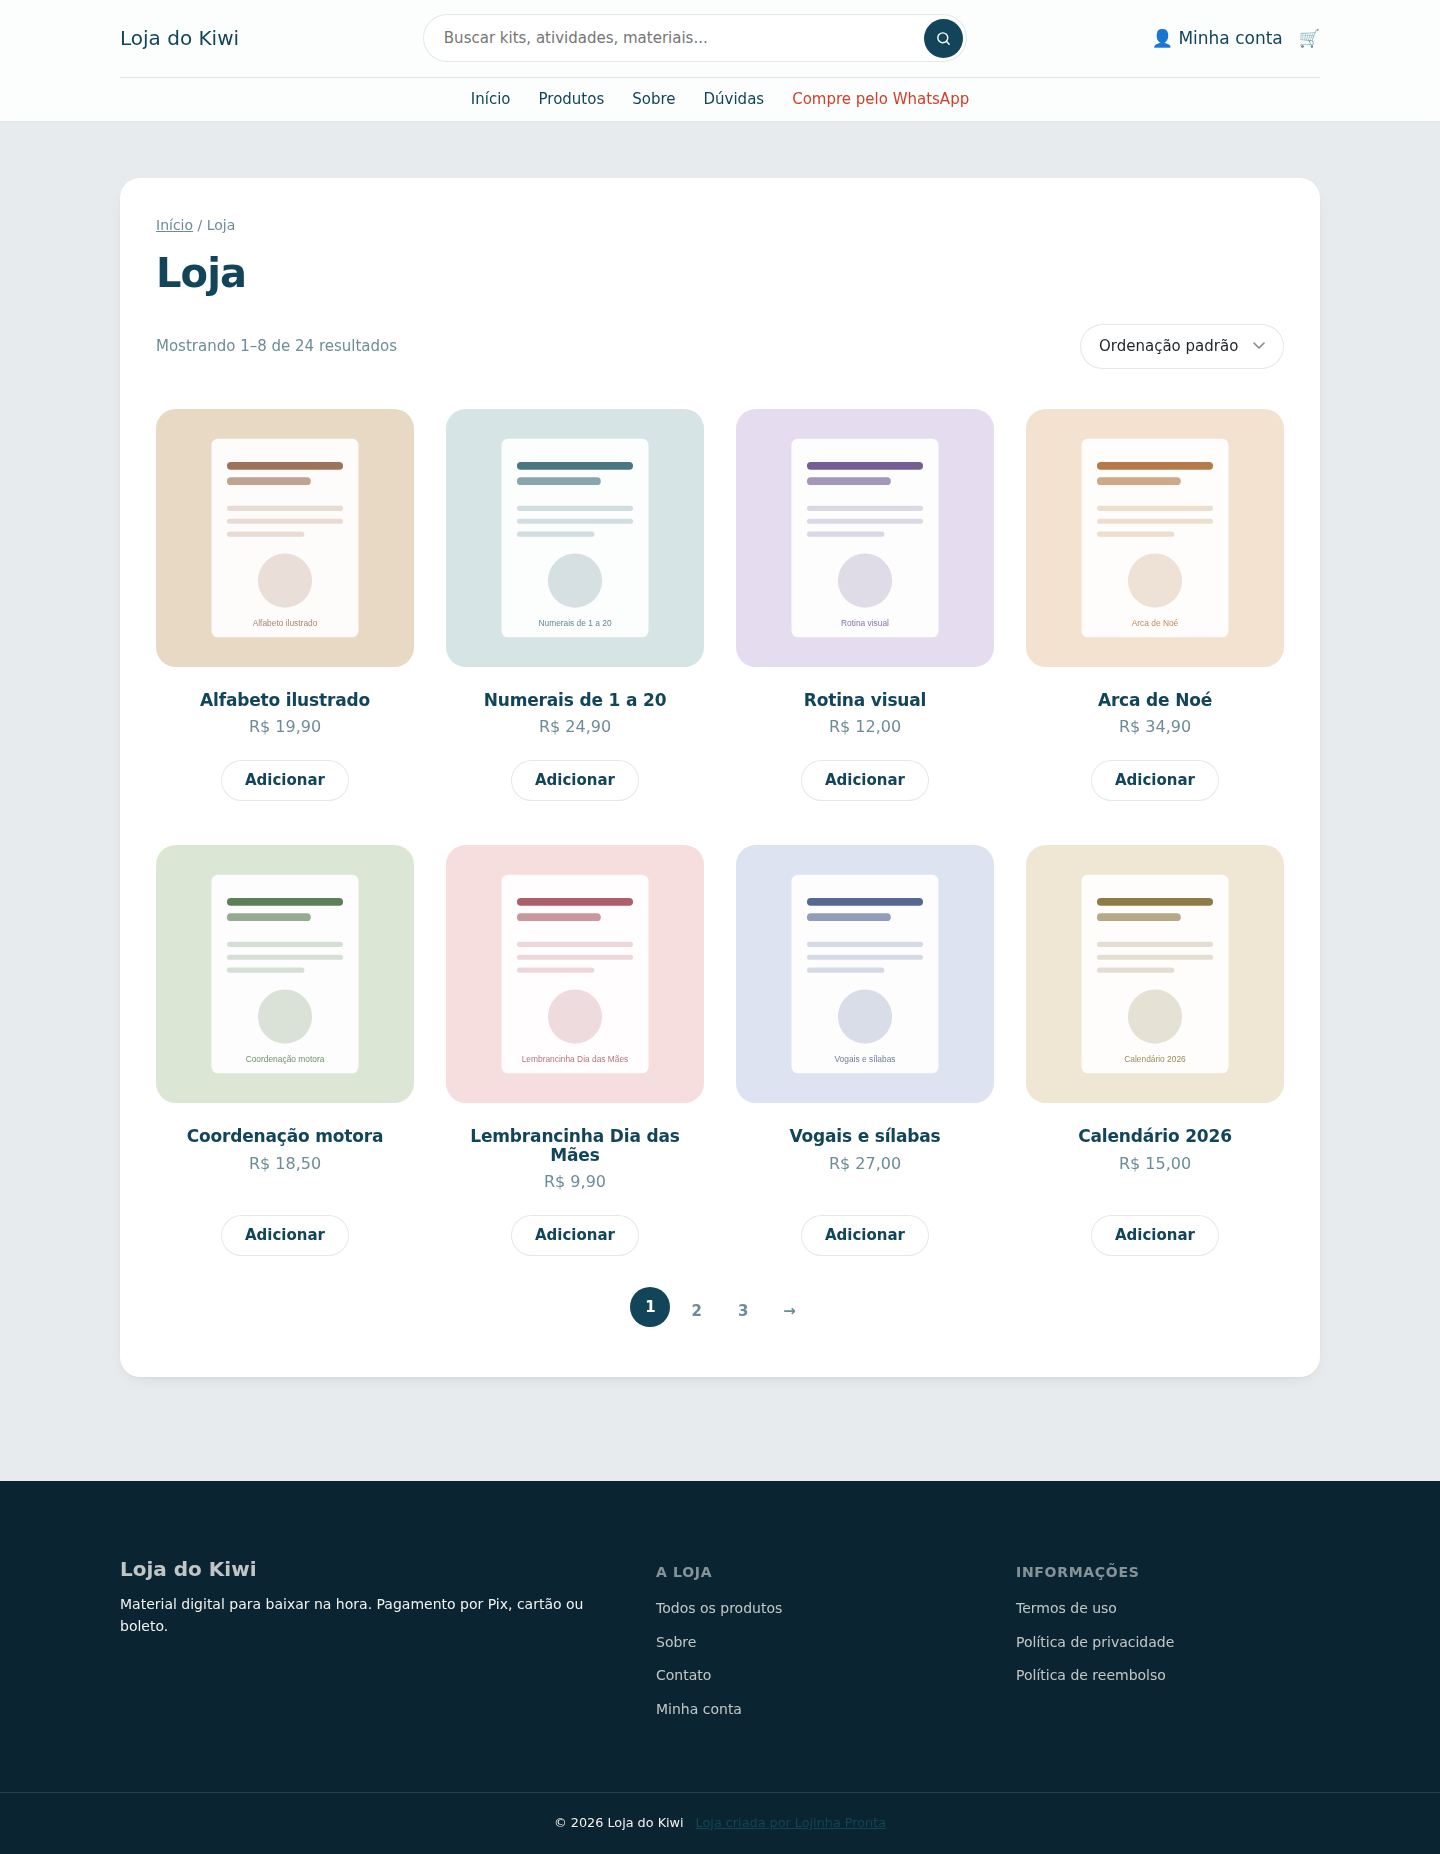
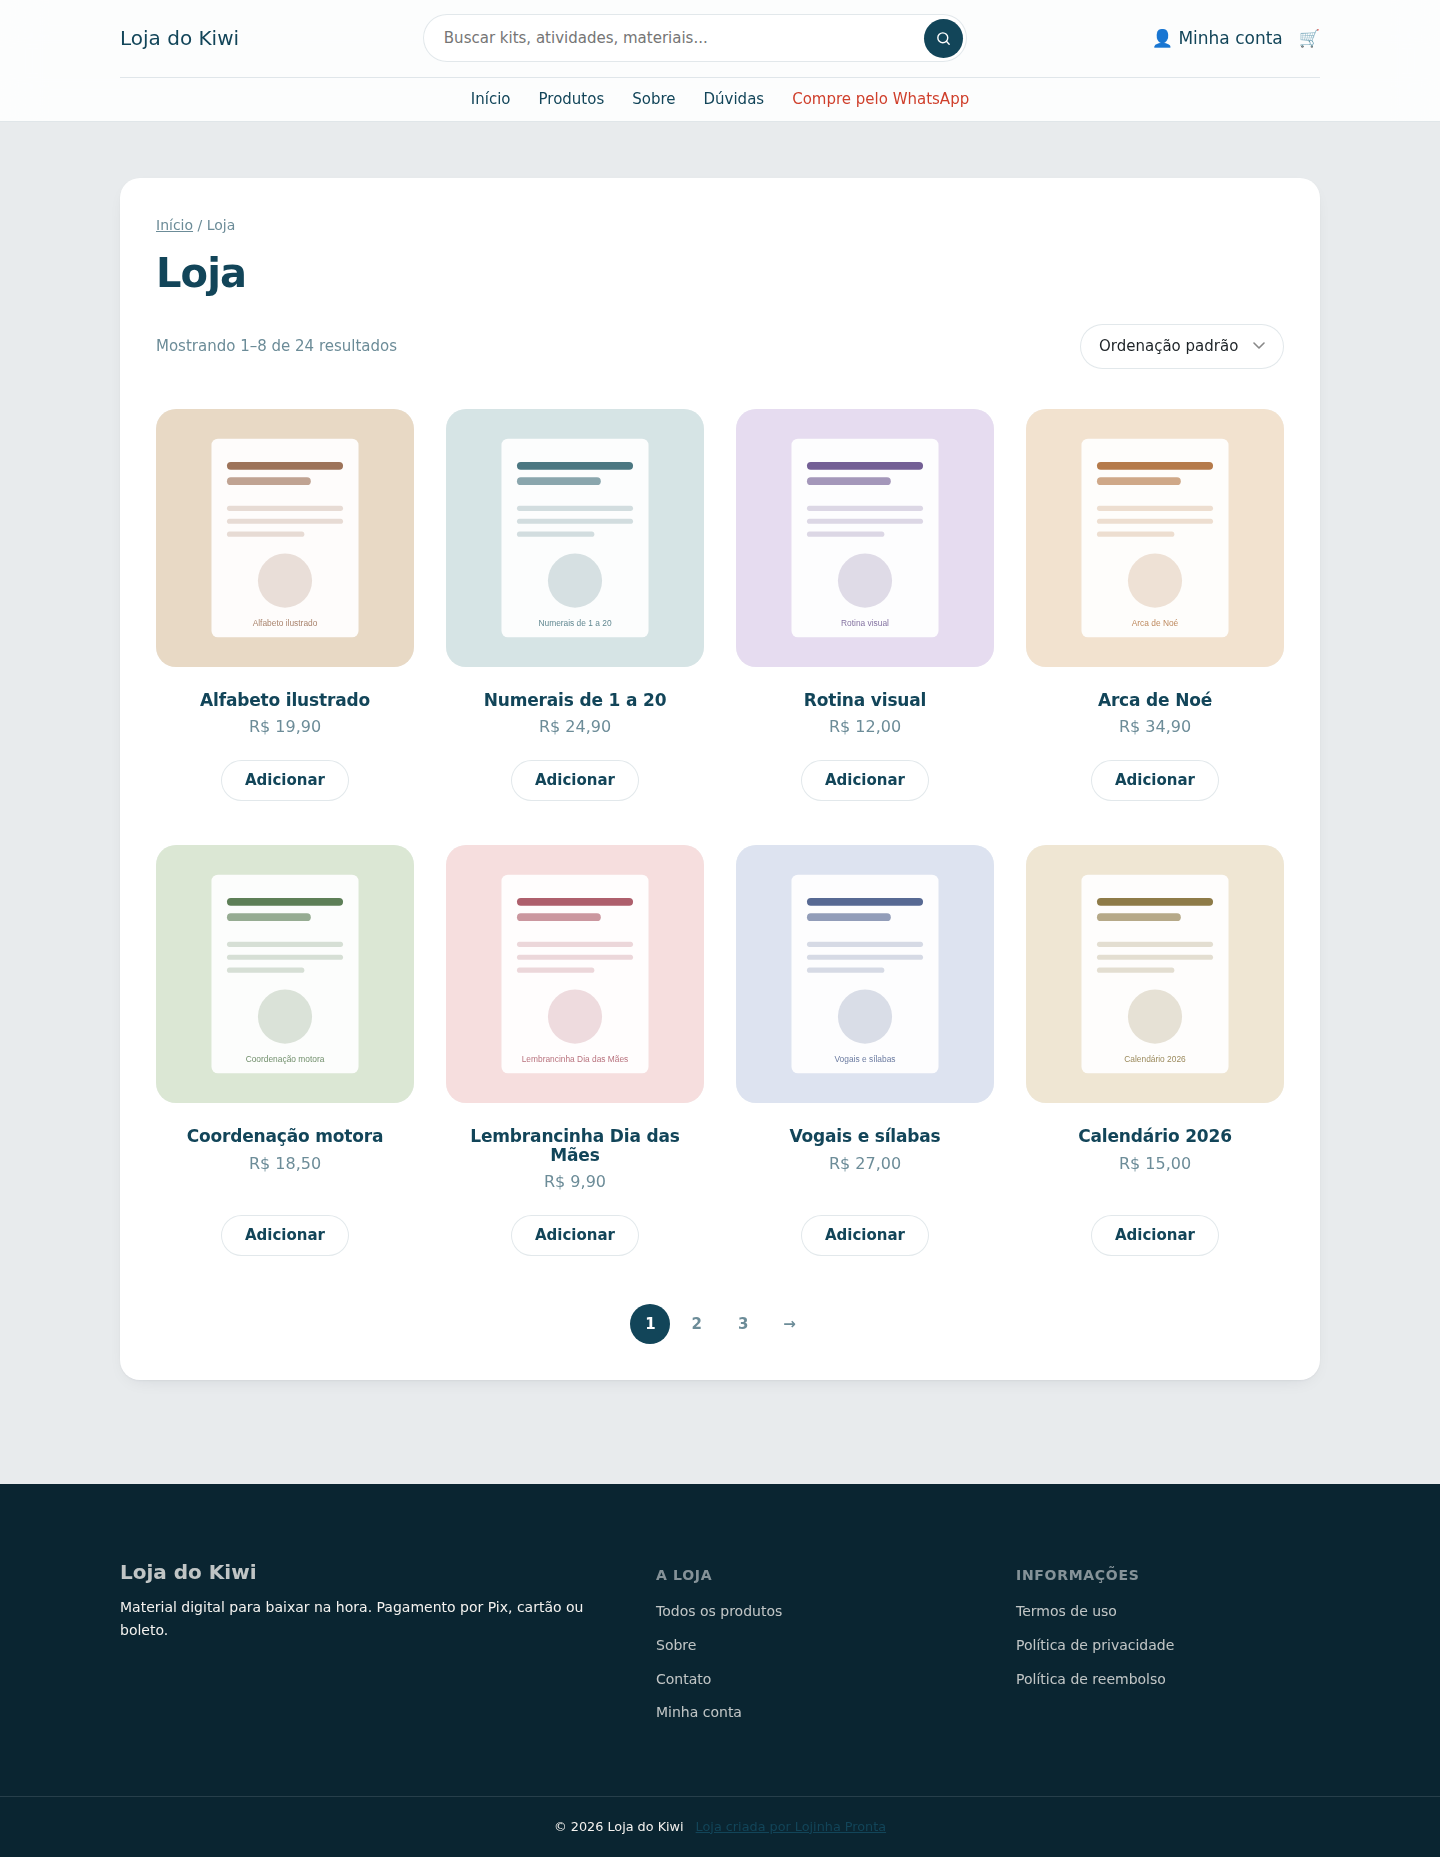
Corrigir os recuos e a loja sem cartão, vistos na loja real
Três bugs, e o primeiro explica por que a prévia não pegava os outros: eu
imitava o layout "constrained" do WordPress limitando os filhos ao
wideSize, quando ele limita ao contentSize. Com contentSize em 860px,
tudo dentro dos cartões vinha recuado 134px de cada lado na loja real e
alinhado na prévia. A prévia agora usa contentSize, e o contentSize do
tema passa a ser 1200px — a largura de leitura já era controlada no CSS.

A /loja/ e a página de produto ficavam sem cartão porque eu apostava num
seletor sobre a marcação que o WooCommerce gera. Agora o cartão vem por
bloco, no modelo, igual à home: não depende de adivinhar.

E a contagem de resultados aparecia no meio da loja: as regras de texto
corrido alcançavam a /loja/, e `margin: 0 auto` num item de grade
centraliza o item. Elas passam a excluir loja e produto.

Claude-Session: https://claude.ai/code/session_01Ds77Wkf3XPAkD3KpAW1DNx

diff --git a/tema/lojinha-pronta/style.css b/tema/lojinha-pronta/style.css
@@ -5,7 +5,7 @@ Author:      Lojinha Pronta
 Author URI:  https://lojinhapronta.com.br
 Description: Tema das lojas entregues pela Lojinha Pronta. Tema filho do Twenty Twenty-Five: herda os modelos de página e continua recebendo atualização de segurança do WordPress. Só carrega o que é específico da entrega — paleta da cliente, botão de WhatsApp, Analytics e o crédito de rodapé.
 Template:    twentytwentyfive
-Version:     3.1.0
+Version:     3.2.0
 Requires at least: 6.7
 Tested up to: 7.1
 Requires PHP: 7.4
@@ -122,13 +122,6 @@ body { background: var(--lp-fundo); }
   background: #fff;
 }
 
-.lp-loja > .woocommerce,
-.lp-produto > .woocommerce {
-  padding: clamp(1.4rem, 3vw, 2.25rem);
-  border-radius: var(--lp-raio);
-  background: #fff;
-  box-shadow: var(--lp-sombra);
-}
 
 /* ---------------------------------------------------------------- movimento
 
@@ -592,7 +585,7 @@ ul.products li.product .button:focus-visible {
 
 .woocommerce-products-header__title,
 .lp-loja .entry-title,
-.lp-loja > .woocommerce > h1 {
+.lp-loja h1 {
   margin: 0 0 1.25rem;
   font-size: clamp(1.75rem, 3.5vw, 2.5rem);
 }
@@ -610,28 +603,40 @@ ul.products li.product .button:focus-visible {
 /* Grade em vez de flex: o container tem filhos de larguras diferentes —
    breadcrumb, título, contagem, ordenação, grade de produtos — e num flex
    simples eles brigam por espaço na mesma linha. Aqui só a contagem e a
-   ordenação dividem uma linha; o resto ocupa a largura toda. */
-.lp-loja > .woocommerce {
+   ordenação dividem uma linha; o resto ocupa a largura toda.
+
+   Os dois seletores existem porque o WooCommerce ora entrega o conteúdo solto
+   dentro do cartão, ora embrulhado num .woocommerce — e eu não vou adivinhar
+   qual dos dois em cada versão. */
+.lp-loja .lp-cartao,
+.lp-loja .lp-cartao > .woocommerce {
   display: grid;
   grid-template-columns: minmax(0, 1fr) auto;
   align-items: center;
   gap: .5rem 1rem;
 }
 
-.lp-loja > .woocommerce > * { grid-column: 1 / -1; }
+/* Tudo ocupa a largura toda, menos a contagem e a ordenação, que dividem uma
+   linha. Excluir as duas aqui evita disputa de especificidade com as regras
+   abaixo — que era o que fazia as duas empilharem. */
+.lp-loja .lp-cartao > *:not(.woocommerce-result-count):not(.woocommerce-ordering),
+.lp-loja .lp-cartao > .woocommerce > *:not(.woocommerce-result-count):not(.woocommerce-ordering) {
+  grid-column: 1 / -1;
+}
 
-.lp-loja > .woocommerce > .woocommerce-result-count {
+.lp-loja .woocommerce-result-count {
   grid-column: 1;
   margin: 0;
 }
 
-.lp-loja > .woocommerce > .woocommerce-ordering {
+.lp-loja .woocommerce-ordering {
   grid-column: 2;
   margin: 0;
+  float: none;
   justify-self: end;
 }
 
-.lp-loja > .woocommerce > ul.products { margin-top: 2rem; }
+.lp-loja ul.products { margin-top: 2rem; }
 
 /* O <select> nativo vem com contorno preto quadrado do navegador. */
 .woocommerce-ordering select,
@@ -950,6 +955,8 @@ ul.products li.product .button:focus-visible {
   }
 }
 
+.woocommerce-account .woocommerce > .woocommerce-notices-wrapper { grid-column: 1 / -1; }
+
 .woocommerce-MyAccount-navigation ul {
   margin: 0;
   padding: .5rem;
@@ -1106,7 +1113,11 @@ ul.products li.product .button:focus-visible {
 /* ---------------------------------------------------------- texto corrido
 
    Página jurídica é para ser lida, não varrida: linha curta, respiro entre
-   parágrafos e título que se distingue sem gritar. */
+   parágrafos e título que se distingue sem gritar.
+
+   A loja e o produto ficam de fora de todas estas regras. Não é zelo: o
+   `margin: 0 auto` daqui, aplicado a um item de grade, centraliza o item — e
+   era isso que jogava a contagem de resultados para o meio da loja. */
 
 /* Linha curta só onde há texto para ler. A conta e o carrinho são tabela e
    formulário: espremidos em 44rem, a tabela vaza para fora da tela. */
@@ -1118,22 +1129,22 @@ body.woocommerce-page .wp-site-blocks > main:not(.lp-main):not(.lp-loja):not(.lp
   max-width: var(--lp-largura);
 }
 
-.wp-site-blocks > main:not(.lp-main) .wp-block-post-title {
+.wp-site-blocks > main:not(.lp-main):not(.lp-loja):not(.lp-produto) .wp-block-post-title {
   margin: 0 auto 2rem;
   font-size: clamp(1.875rem, 4vw, 2.75rem);
 }
 
-.wp-site-blocks > main:not(.lp-main) h2 { margin: 2.75rem auto 1rem; }
+.wp-site-blocks > main:not(.lp-main):not(.lp-loja):not(.lp-produto) h2 { margin: 2.75rem auto 1rem; }
 
-.wp-site-blocks > main:not(.lp-main) h3 { margin: 2rem auto .75rem; }
+.wp-site-blocks > main:not(.lp-main):not(.lp-loja):not(.lp-produto) h3 { margin: 2rem auto .75rem; }
 
-.wp-site-blocks > main:not(.lp-main) p,
-.wp-site-blocks > main:not(.lp-main) ul,
-.wp-site-blocks > main:not(.lp-main) ol { margin: 0 auto 1.15rem; }
+.wp-site-blocks > main:not(.lp-main):not(.lp-loja):not(.lp-produto) p,
+.wp-site-blocks > main:not(.lp-main):not(.lp-loja):not(.lp-produto) ul,
+.wp-site-blocks > main:not(.lp-main):not(.lp-loja):not(.lp-produto) ol { margin: 0 auto 1.15rem; }
 
-.wp-site-blocks > main:not(.lp-main) li + li { margin-top: .5rem; }
+.wp-site-blocks > main:not(.lp-main):not(.lp-loja):not(.lp-produto) li + li { margin-top: .5rem; }
 
-.wp-site-blocks > main:not(.lp-main) .wp-block-table table {
+.wp-site-blocks > main:not(.lp-main):not(.lp-loja):not(.lp-produto) .wp-block-table table {
   border-collapse: separate;
   border-spacing: 0;
   border: 1px solid var(--lp-linha);
@@ -1142,17 +1153,17 @@ body.woocommerce-page .wp-site-blocks > main:not(.lp-main):not(.lp-loja):not(.lp
   font-size: .9375rem;
 }
 
-.wp-site-blocks > main:not(.lp-main) .wp-block-table th,
-.wp-site-blocks > main:not(.lp-main) .wp-block-table td {
+.wp-site-blocks > main:not(.lp-main):not(.lp-loja):not(.lp-produto) .wp-block-table th,
+.wp-site-blocks > main:not(.lp-main):not(.lp-loja):not(.lp-produto) .wp-block-table td {
   padding: .8rem 1rem;
   border: 0;
   border-bottom: 1px solid var(--lp-linha);
   text-align: left;
 }
 
-.wp-site-blocks > main:not(.lp-main) .wp-block-table thead th { background: var(--lp-superficie); }
+.wp-site-blocks > main:not(.lp-main):not(.lp-loja):not(.lp-produto) .wp-block-table thead th { background: var(--lp-superficie); }
 
-.wp-site-blocks > main:not(.lp-main) .wp-block-table tr:last-child td { border-bottom: 0; }
+.wp-site-blocks > main:not(.lp-main):not(.lp-loja):not(.lp-produto) .wp-block-table tr:last-child td { border-bottom: 0; }
 
 /* ------------------------------------------------- carrinho e finalização
 

diff --git a/ferramentas/previa/previa-loja.html b/ferramentas/previa/previa-loja.html
@@ -30,7 +30,9 @@ a{color:#124559}
 .has-lp-suave-color{color:#f4f2ef !important}
 .has-lp-marca-escura-background-color{background-color:#0a2531 !important}
 .wp-site-blocks{padding-left:var(--wp--style--root--padding-left);padding-right:var(--wp--style--root--padding-right)}
-/* layout "constrained": é assim que o WordPress limita a largura dos filhos */
+/* layout "constrained": o WordPress limita os filhos ao contentSize, não ao
+   wideSize. Imitar isso errado escondeu um recuo de 134px dentro dos cartões
+   que só apareceu na loja de verdade. */
 .wp-container > *{max-width:1200px;margin-left:auto;margin-right:auto}
 /* e é assim que ele trata largura total — especificidade 0,2,0 */
 .wp-container > .alignfull{max-width:none;width:auto;
@@ -67,7 +69,7 @@ a{color:#124559}
   </div>
 </header>
 <main class="wp-block-group alignfull lp-loja wp-container">
-  <div class="woocommerce">
+  <div class="wp-block-group lp-cartao"><div class="woocommerce">
     <nav class="woocommerce-breadcrumb"><a href="#">Início</a> / Loja</nav>
     <h1 class="woocommerce-products-header__title page-title">Loja</h1>
     <p class="woocommerce-result-count">Mostrando 1–8 de 24 resultados</p>
@@ -149,7 +151,7 @@ a{color:#124559}
         <li><a class="next page-numbers" href="#">→</a></li>
       </ul>
     </nav>
-  </div>
+  </div></div>
 </main>
 <footer class="wp-block-group lp-rodape has-lp-suave-color has-lp-marca-escura-background-color wp-container">
   <div class="wp-block-columns">

diff --git a/ferramentas/previa/previa-produto.html b/ferramentas/previa/previa-produto.html
@@ -30,7 +30,9 @@ a{color:#124559}
 .has-lp-suave-color{color:#f4f2ef !important}
 .has-lp-marca-escura-background-color{background-color:#0a2531 !important}
 .wp-site-blocks{padding-left:var(--wp--style--root--padding-left);padding-right:var(--wp--style--root--padding-right)}
-/* layout "constrained": é assim que o WordPress limita a largura dos filhos */
+/* layout "constrained": o WordPress limita os filhos ao contentSize, não ao
+   wideSize. Imitar isso errado escondeu um recuo de 134px dentro dos cartões
+   que só apareceu na loja de verdade. */
 .wp-container > *{max-width:1200px;margin-left:auto;margin-right:auto}
 /* e é assim que ele trata largura total — especificidade 0,2,0 */
 .wp-container > .alignfull{max-width:none;width:auto;
@@ -67,7 +69,7 @@ a{color:#124559}
   </div>
 </header>
 <main class="wp-block-group alignfull lp-produto wp-container">
-  <div class="woocommerce">
+  <div class="wp-block-group lp-cartao"><div class="woocommerce">
     <nav class="woocommerce-breadcrumb"><a href="#">Início</a> / <a href="#">Alfabetização</a> / Alfabeto ilustrado</nav>
     <div class="product type-product">
       <div class="woocommerce-product-gallery">
@@ -135,7 +137,7 @@ a{color:#124559}
   </li></ul>
       </section>
     </div>
-  </div>
+  </div></div>
 </main>
 <footer class="wp-block-group lp-rodape has-lp-suave-color has-lp-marca-escura-background-color wp-container">
   <div class="wp-block-columns">

diff --git a/ferramentas/previa/previa-conta.html b/ferramentas/previa/previa-conta.html
@@ -30,7 +30,9 @@ a{color:#124559}
 .has-lp-suave-color{color:#f4f2ef !important}
 .has-lp-marca-escura-background-color{background-color:#0a2531 !important}
 .wp-site-blocks{padding-left:var(--wp--style--root--padding-left);padding-right:var(--wp--style--root--padding-right)}
-/* layout "constrained": é assim que o WordPress limita a largura dos filhos */
+/* layout "constrained": o WordPress limita os filhos ao contentSize, não ao
+   wideSize. Imitar isso errado escondeu um recuo de 134px dentro dos cartões
+   que só apareceu na loja de verdade. */
 .wp-container > *{max-width:1200px;margin-left:auto;margin-right:auto}
 /* e é assim que ele trata largura total — especificidade 0,2,0 */
 .wp-container > .alignfull{max-width:none;width:auto;

diff --git a/ferramentas/previa/previa-entrar.html b/ferramentas/previa/previa-entrar.html
@@ -30,7 +30,9 @@ a{color:#124559}
 .has-lp-suave-color{color:#f4f2ef !important}
 .has-lp-marca-escura-background-color{background-color:#0a2531 !important}
 .wp-site-blocks{padding-left:var(--wp--style--root--padding-left);padding-right:var(--wp--style--root--padding-right)}
-/* layout "constrained": é assim que o WordPress limita a largura dos filhos */
+/* layout "constrained": o WordPress limita os filhos ao contentSize, não ao
+   wideSize. Imitar isso errado escondeu um recuo de 134px dentro dos cartões
+   que só apareceu na loja de verdade. */
 .wp-container > *{max-width:1200px;margin-left:auto;margin-right:auto}
 /* e é assim que ele trata largura total — especificidade 0,2,0 */
 .wp-container > .alignfull{max-width:none;width:auto;

diff --git a/ferramentas/previa/previa-home.html b/ferramentas/previa/previa-home.html
@@ -30,7 +30,9 @@ a{color:#124559}
 .has-lp-suave-color{color:#f4f2ef !important}
 .has-lp-marca-escura-background-color{background-color:#0a2531 !important}
 .wp-site-blocks{padding-left:var(--wp--style--root--padding-left);padding-right:var(--wp--style--root--padding-right)}
-/* layout "constrained": é assim que o WordPress limita a largura dos filhos */
+/* layout "constrained": o WordPress limita os filhos ao contentSize, não ao
+   wideSize. Imitar isso errado escondeu um recuo de 134px dentro dos cartões
+   que só apareceu na loja de verdade. */
 .wp-container > *{max-width:1200px;margin-left:auto;margin-right:auto}
 /* e é assim que ele trata largura total — especificidade 0,2,0 */
 .wp-container > .alignfull{max-width:none;width:auto;

diff --git a/ferramentas/previa/previa-texto.html b/ferramentas/previa/previa-texto.html
@@ -30,7 +30,9 @@ a{color:#124559}
 .has-lp-suave-color{color:#f4f2ef !important}
 .has-lp-marca-escura-background-color{background-color:#0a2531 !important}
 .wp-site-blocks{padding-left:var(--wp--style--root--padding-left);padding-right:var(--wp--style--root--padding-right)}
-/* layout "constrained": é assim que o WordPress limita a largura dos filhos */
+/* layout "constrained": o WordPress limita os filhos ao contentSize, não ao
+   wideSize. Imitar isso errado escondeu um recuo de 134px dentro dos cartões
+   que só apareceu na loja de verdade. */
 .wp-container > *{max-width:1200px;margin-left:auto;margin-right:auto}
 /* e é assim que ele trata largura total — especificidade 0,2,0 */
 .wp-container > .alignfull{max-width:none;width:auto;

diff --git a/tema/lojinha-pronta/templates/single-product.html b/tema/lojinha-pronta/templates/single-product.html
@@ -1,7 +1,9 @@
 <!-- wp:template-part {"slug":"header","tagName":"header"} /-->
 
 <!-- wp:group {"tagName":"main","className":"lp-produto","align":"full","layout":{"type":"constrained","contentSize":"1200px","wideSize":"1200px"}} -->
-<main class="wp-block-group alignfull lp-produto"><!-- wp:woocommerce/legacy-template {"template":"single-product"} /--></main>
+<main class="wp-block-group alignfull lp-produto"><!-- wp:group {"className":"lp-cartao","layout":{"type":"default"}} -->
+<div class="wp-block-group lp-cartao"><!-- wp:woocommerce/legacy-template {"template":"single-product"} /--></div>
+<!-- /wp:group --></main>
 <!-- /wp:group -->
 
 <!-- wp:template-part {"slug":"footer","tagName":"footer"} /-->

diff --git a/tema/lojinha-pronta/templates/archive-product.html b/tema/lojinha-pronta/templates/archive-product.html
@@ -1,7 +1,9 @@
 <!-- wp:template-part {"slug":"header","tagName":"header"} /-->
 
 <!-- wp:group {"tagName":"main","className":"lp-loja","align":"full","layout":{"type":"constrained","contentSize":"1200px","wideSize":"1200px"}} -->
-<main class="wp-block-group alignfull lp-loja"><!-- wp:woocommerce/legacy-template {"template":"archive-product"} /--></main>
+<main class="wp-block-group alignfull lp-loja"><!-- wp:group {"className":"lp-cartao","layout":{"type":"default"}} -->
+<div class="wp-block-group lp-cartao"><!-- wp:woocommerce/legacy-template {"template":"archive-product"} /--></div>
+<!-- /wp:group --></main>
 <!-- /wp:group -->
 
 <!-- wp:template-part {"slug":"footer","tagName":"footer"} /-->

diff --git a/tema/lojinha-pronta/templates/taxonomy-product_cat.html b/tema/lojinha-pronta/templates/taxonomy-product_cat.html
@@ -1,7 +1,9 @@
 <!-- wp:template-part {"slug":"header","tagName":"header"} /-->
 
 <!-- wp:group {"tagName":"main","className":"lp-loja","align":"full","layout":{"type":"constrained","contentSize":"1200px","wideSize":"1200px"}} -->
-<main class="wp-block-group alignfull lp-loja"><!-- wp:woocommerce/legacy-template {"template":"archive-product"} /--></main>
+<main class="wp-block-group alignfull lp-loja"><!-- wp:group {"className":"lp-cartao","layout":{"type":"default"}} -->
+<div class="wp-block-group lp-cartao"><!-- wp:woocommerce/legacy-template {"template":"archive-product"} /--></div>
+<!-- /wp:group --></main>
 <!-- /wp:group -->
 
 <!-- wp:template-part {"slug":"footer","tagName":"footer"} /-->

diff --git a/tema/lojinha-pronta/templates/taxonomy-product_tag.html b/tema/lojinha-pronta/templates/taxonomy-product_tag.html
@@ -1,7 +1,9 @@
 <!-- wp:template-part {"slug":"header","tagName":"header"} /-->
 
 <!-- wp:group {"tagName":"main","className":"lp-loja","align":"full","layout":{"type":"constrained","contentSize":"1200px","wideSize":"1200px"}} -->
-<main class="wp-block-group alignfull lp-loja"><!-- wp:woocommerce/legacy-template {"template":"archive-product"} /--></main>
+<main class="wp-block-group alignfull lp-loja"><!-- wp:group {"className":"lp-cartao","layout":{"type":"default"}} -->
+<div class="wp-block-group lp-cartao"><!-- wp:woocommerce/legacy-template {"template":"archive-product"} /--></div>
+<!-- /wp:group --></main>
 <!-- /wp:group -->
 
 <!-- wp:template-part {"slug":"footer","tagName":"footer"} /-->

diff --git a/ferramentas/previa/paginas/loja.html b/ferramentas/previa/paginas/loja.html
@@ -1,7 +1,7 @@
 <div class="wp-site-blocks">
 <!--CABECALHO-->
 <main class="wp-block-group alignfull lp-loja wp-container">
-  <div class="woocommerce">
+  <div class="wp-block-group lp-cartao"><div class="woocommerce">
     <nav class="woocommerce-breadcrumb"><a href="#">Início</a> / Loja</nav>
     <h1 class="woocommerce-products-header__title page-title">Loja</h1>
     <p class="woocommerce-result-count">Mostrando 1–8 de 24 resultados</p>
@@ -19,7 +19,7 @@
         <li><a class="next page-numbers" href="#">→</a></li>
       </ul>
     </nav>
-  </div>
+  </div></div>
 </main>
 <!--RODAPE-->
 </div>
